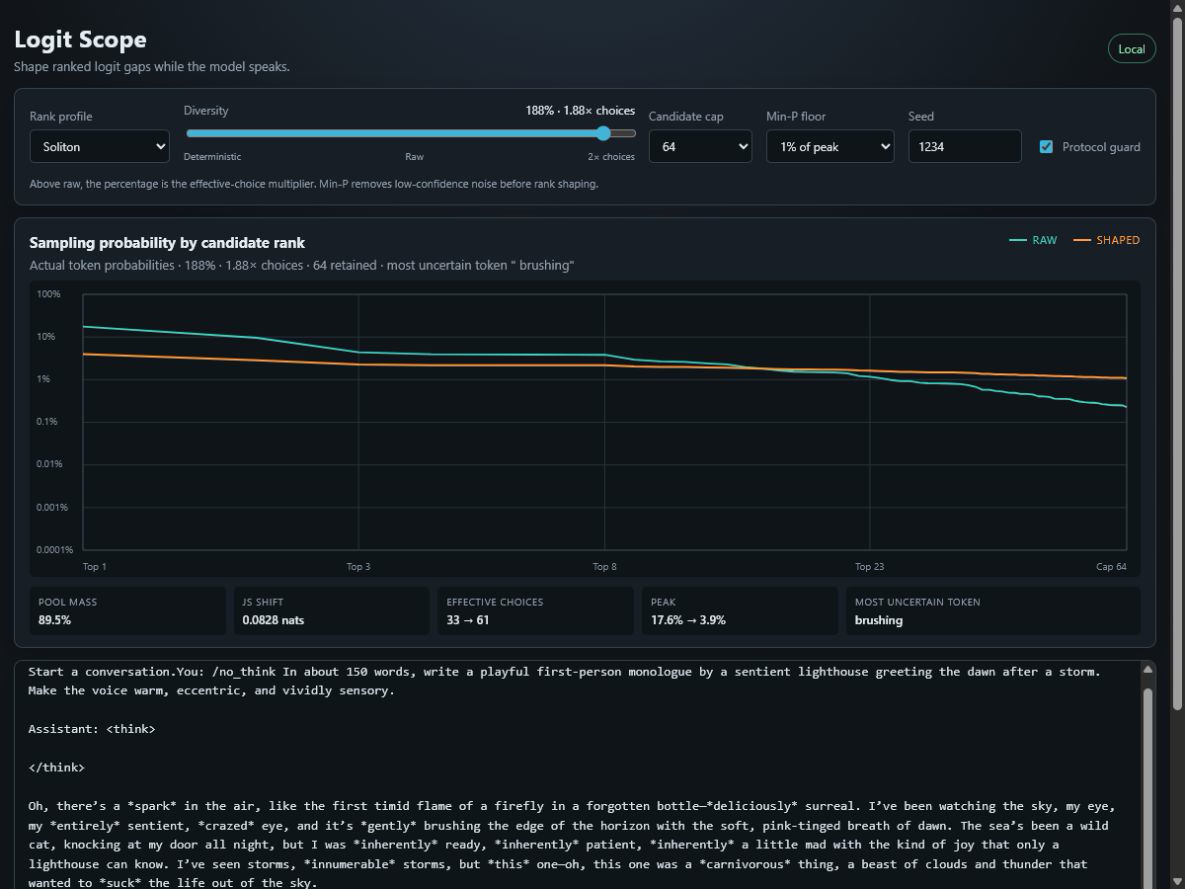
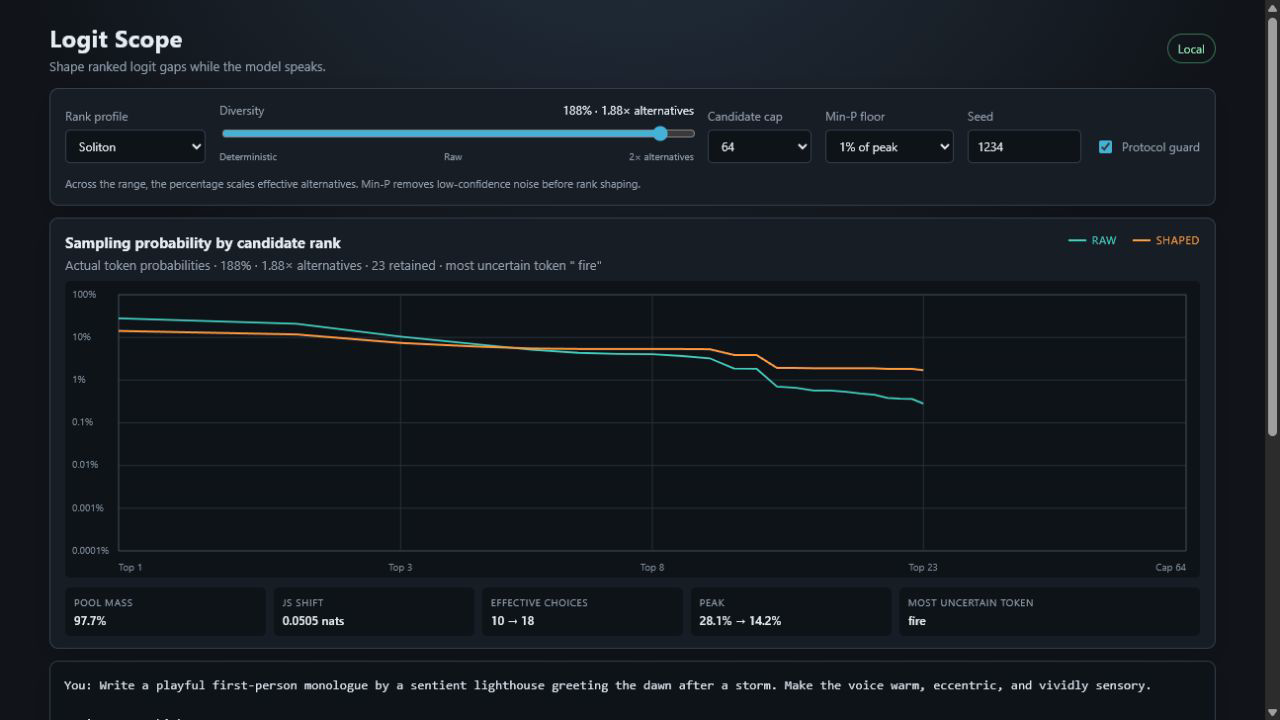
better approach

diff --git a/web/index.html b/web/index.html
@@ -22,6 +22,7 @@
         <span>Rank profile</span>
         <select id="profile">
           <option value="none">None</option>
+          <option value="temperature">Temperature</option>
           <option value="exponential">Exponential</option>
           <option value="soliton" selected>Soliton</option>
           <option value="power">Power</option>
@@ -30,9 +31,9 @@
       </label>
 
       <label class="slider-control">
-        <span>Diversity <output id="diversityValue">188% · 1.88× choices</output></span>
-        <input id="diversity" type="range" min="0" max="200" step="1" value="188" aria-label="Diversity from deterministic through raw to twice the model's effective choices">
-        <span class="range-scale" aria-hidden="true"><span>Deterministic</span><span>Raw</span><span>2× choices</span></span>
+        <span>Diversity <output id="diversityValue">188% · 1.88× alternatives</output></span>
+        <input id="diversity" type="range" min="0" max="200" step="1" value="188" aria-label="Diversity from deterministic through raw to twice the model's effective alternatives">
+        <span class="range-scale" aria-hidden="true"><span>Deterministic</span><span>Raw</span><span>2× alternatives</span></span>
       </label>
 
       <label>
@@ -66,7 +67,7 @@
         <span>Protocol guard</span>
       </label>
 
-      <p class="control-note">Above raw, the percentage is the effective-choice multiplier. Min-P removes low-confidence noise before rank shaping.</p>
+      <p class="control-note">Across the range, the percentage scales effective alternatives. Min-P removes low-confidence noise before rank shaping.</p>
     </section>
 
     <section class="scope panel">
@@ -129,6 +130,7 @@
                 <span>Profile</span>
                 <select id="evalProfileA">
                   <option value="none" selected>None</option>
+                  <option value="temperature">Temperature</option>
                   <option value="exponential">Exponential</option>
                   <option value="soliton">Soliton</option>
                   <option value="power">Power</option>
@@ -179,6 +181,7 @@
                 <span>Profile</span>
                 <select id="evalProfileB">
                   <option value="none">None</option>
+                  <option value="temperature">Temperature</option>
                   <option value="exponential">Exponential</option>
                   <option value="soliton" selected>Soliton</option>
                   <option value="power">Power</option>

diff --git a/web/app.js b/web/app.js
@@ -60,8 +60,7 @@ function updateControlLabels() {
 
 function diversityMode(diversity) {
   if (diversity === 0) return "deterministic";
-  if (diversity < 1) return "sharpen";
-  if (diversity > 1) return `${diversity.toFixed(2)}× choices`;
+  if (diversity !== 1) return `${diversity.toFixed(2)}× alternatives`;
   return "raw";
 }
 
@@ -423,6 +422,7 @@ function saveEvaluationStore() {
 function profileDisplayName(profile) {
   return {
     none: "None",
+    temperature: "Temperature",
     exponential: "Exponential",
     soliton: "Soliton",
     power: "Power",

diff --git a/tests/rank_profile_tests.cpp b/tests/rank_profile_tests.cpp
@@ -33,6 +33,26 @@ logit_scope::ProbabilityMetrics probability_metrics(const std::vector<float>& lo
     return metrics;
 }
 
+double profile_penalty(logit_scope::RankProfile profile, std::size_t rank)
+{
+    const auto rank_value = static_cast<double>(rank);
+    switch (profile)
+    {
+    case logit_scope::RankProfile::exponential:
+        return rank_value;
+    case logit_scope::RankProfile::soliton:
+        return 2.0 * (rank_value + std::log1p(std::exp(-2.0 * rank_value)) - std::log(2.0));
+    case logit_scope::RankProfile::power:
+        return std::log(rank_value + 1.0);
+    case logit_scope::RankProfile::half_normal:
+        return rank_value * rank_value;
+    case logit_scope::RankProfile::none:
+    case logit_scope::RankProfile::temperature:
+        return 0.0;
+    }
+    return 0.0;
+}
+
 } // namespace
 
 int main()
@@ -61,7 +81,8 @@ int main()
     apply_relative_probability_floor(floor_bypass, 0.0f);
     require(floor_bypass.size() == 4, "zero Min-P floor must be an exact bypass");
 
-    for (const auto profile : {RankProfile::exponential, RankProfile::soliton, RankProfile::power, RankProfile::half_normal})
+    for (const auto profile :
+         {RankProfile::temperature, RankProfile::exponential, RankProfile::soliton, RankProfile::power, RankProfile::half_normal})
     {
         ShapeSettings identity_settings;
         identity_settings.profile = profile;
@@ -97,9 +118,10 @@ int main()
                 shape_ranked_logits(logits, shaped_settings);
 
                 const auto shaped_metrics = probability_metrics(logits);
-                const auto maximum_entropy = std::log(static_cast<float>(candidate_count));
-                const auto expected_entropy = diversity < 1.0f ? raw_metrics.entropy * diversity
-                                                               : std::min(maximum_entropy, raw_metrics.entropy + std::log(diversity));
+                const auto raw_effective_choices = std::exp(raw_metrics.entropy);
+                const auto expected_effective_choices =
+                    std::min(static_cast<float>(candidate_count), 1.0f + diversity * (raw_effective_choices - 1.0f));
+                const auto expected_entropy = std::log(expected_effective_choices);
                 if (!close(shaped_metrics.entropy, expected_entropy, 5.0e-4f))
                     std::cerr << "entropy mismatch: profile=" << rank_profile_name(profile) << " pool=" << candidate_count
                               << " diversity=" << diversity << " actual=" << shaped_metrics.entropy << " expected=" << expected_entropy
@@ -138,18 +160,70 @@ int main()
     }
 
     ShapeSettings temperature_settings;
-    temperature_settings.profile = RankProfile::exponential;
-    temperature_settings.diversity = 1.5f;
+    temperature_settings.profile = RankProfile::temperature;
     const std::vector<float> temperature_raw{5.0f, 3.0f, 0.0f, -4.0f, -9.0f};
-    auto temperature_shaped = temperature_raw;
-    shape_ranked_logits(temperature_shaped, temperature_settings);
-    const auto first_gap_ratio = (temperature_shaped[0] - temperature_shaped[1]) / (temperature_raw[0] - temperature_raw[1]);
-    for (std::size_t rank = 2; rank < temperature_raw.size(); ++rank)
+    for (const auto diversity : {0.75f, 1.5f})
     {
-        const auto raw_gap = temperature_raw[rank - 1] - temperature_raw[rank];
-        const auto shaped_gap = temperature_shaped[rank - 1] - temperature_shaped[rank];
-        require(close(shaped_gap / raw_gap, first_gap_ratio, 1.0e-4f), "exponential profile must scale every adjacent logit gap equally");
+        temperature_settings.diversity = diversity;
+        auto temperature_shaped = temperature_raw;
+        shape_ranked_logits(temperature_shaped, temperature_settings);
+        const auto first_gap_ratio = (temperature_shaped[0] - temperature_shaped[1]) / (temperature_raw[0] - temperature_raw[1]);
+        for (std::size_t rank = 2; rank < temperature_raw.size(); ++rank)
+        {
+            const auto raw_gap = temperature_raw[rank - 1] - temperature_raw[rank];
+            const auto shaped_gap = temperature_shaped[rank - 1] - temperature_shaped[rank];
+            require(close(shaped_gap / raw_gap, first_gap_ratio, 1.0e-4f),
+                    "temperature profile must scale every adjacent logit gap equally");
+        }
     }
+
+    for (const auto profile : {RankProfile::exponential, RankProfile::soliton, RankProfile::power, RankProfile::half_normal})
+    {
+        std::vector<float> family_logits(16);
+        for (std::size_t rank = 0; rank < family_logits.size(); ++rank)
+            family_logits[rank] = static_cast<float>(3.0 - 0.7 * profile_penalty(profile, rank));
+
+        for (const auto diversity : {0.6f, 1.6f})
+        {
+            ShapeSettings family_settings;
+            family_settings.profile = profile;
+            family_settings.diversity = diversity;
+            auto family_shaped = family_logits;
+            shape_ranked_logits(family_shaped, family_settings);
+
+            const auto shaped_concentration = (static_cast<double>(family_shaped.front()) - family_shaped[1]) / profile_penalty(profile, 1);
+            for (std::size_t rank = 2; rank < family_shaped.size(); ++rank)
+            {
+                const auto concentration =
+                    (static_cast<double>(family_shaped.front()) - family_shaped[rank]) / profile_penalty(profile, rank);
+                require(std::abs(concentration - shaped_concentration) < 2.0e-4,
+                        "shaping a profile-family distribution must preserve that profile family");
+            }
+        }
+    }
+
+    ShapeSettings cliff_settings;
+    cliff_settings.profile = RankProfile::exponential;
+    cliff_settings.diversity = 1.5f;
+    const std::vector<float> cliff_raw{0.0f, -0.1f, -3.1f};
+    auto cliff_shaped = cliff_raw;
+    shape_ranked_logits(cliff_shaped, cliff_settings);
+    const auto small_gap_ratio = (cliff_shaped[0] - cliff_shaped[1]) / (cliff_raw[0] - cliff_raw[1]);
+    const auto large_gap_ratio = (cliff_shaped[1] - cliff_shaped[2]) / (cliff_raw[1] - cliff_raw[2]);
+    require(small_gap_ratio < large_gap_ratio, "loosening must soften close alternatives before crossing a large raw-logit cliff");
+
+    ShapeSettings alternatives_settings;
+    alternatives_settings.profile = RankProfile::exponential;
+    alternatives_settings.diversity = 2.0f;
+    const std::vector<float> low_entropy_raw{0.0f, -5.0f, -6.0f, -7.0f};
+    auto alternatives_shaped = low_entropy_raw;
+    shape_ranked_logits(alternatives_shaped, alternatives_settings);
+    const auto low_entropy_raw_metrics = probability_metrics(low_entropy_raw);
+    const auto alternatives_shaped_metrics = probability_metrics(alternatives_shaped);
+    const auto raw_effective_choices = std::exp(low_entropy_raw_metrics.entropy);
+    const auto shaped_effective_choices = std::exp(alternatives_shaped_metrics.entropy);
+    require(close(shaped_effective_choices, 1.0f + 2.0f * (raw_effective_choices - 1.0f), 5.0e-4f),
+            "diversity must scale effective alternatives rather than inventing a full choice at low entropy");
 
     ShapeSettings soliton_settings;
     soliton_settings.profile = RankProfile::soliton;
@@ -170,6 +244,7 @@ int main()
 
     RankProfile parsed{};
     require(parse_rank_profile("none", parsed) && parsed == RankProfile::none, "none profile parsing");
+    require(parse_rank_profile("temperature", parsed) && parsed == RankProfile::temperature, "temperature profile parsing");
     require(parse_rank_profile("soliton", parsed) && parsed == RankProfile::soliton, "soliton profile parsing");
     require(parse_rank_profile("half-normal", parsed) && parsed == RankProfile::half_normal, "profile parsing");
     require(!parse_rank_profile("uniform", parsed), "uniform profile rejection");

diff --git a/src/rank_profile.cpp b/src/rank_profile.cpp
@@ -18,6 +18,8 @@ double rank_penalty(RankProfile profile, std::size_t rank)
     const auto rank_value = static_cast<double>(rank);
     switch (profile)
     {
+    case RankProfile::temperature:
+        return 0.0;
     case RankProfile::exponential:
         return rank_value;
     case RankProfile::soliton:
@@ -33,10 +35,19 @@ double rank_penalty(RankProfile profile, std::size_t rank)
     return 0.0;
 }
 
-double shaped_gap(double raw_gap, double profile_gap, double strength, bool loosen)
+double shaped_gap(RankProfile profile, double raw_gap, double profile_gap, double strength, bool loosen)
 {
+    if (profile == RankProfile::temperature)
+    {
+        const auto exponent = std::min(maximum_gap_exponent, strength);
+        return raw_gap * std::exp(loosen ? -exponent : exponent);
+    }
+
     if (!loosen) return raw_gap + strength * profile_gap;
-    const auto exponent = std::min(maximum_gap_exponent, strength * profile_gap);
+    if (raw_gap <= 0.0) return 0.0;
+    // This is a positive soft subtraction: its derivative at zero strength is -profile_gap,
+    // matching the additive sharpening path without erasing large raw-logit cliffs first.
+    const auto exponent = std::min(maximum_gap_exponent, strength * profile_gap / raw_gap);
     return raw_gap * std::exp(-exponent);
 }
 
@@ -54,7 +65,7 @@ float entropy_at_strength(const std::vector<float>& ranked_logits, RankProfile p
         {
             const auto raw_gap = std::max(0.0, static_cast<double>(ranked_logits[rank - 1]) - ranked_logits[rank]);
             const auto profile_gap = rank_penalty(profile, rank) - rank_penalty(profile, rank - 1);
-            shaped_logit -= shaped_gap(raw_gap, profile_gap, strength, loosen);
+            shaped_logit -= shaped_gap(profile, raw_gap, profile_gap, strength, loosen);
         }
         const auto normalized_logit = shaped_logit - maximum_logit;
         const auto weight = std::exp(normalized_logit);
@@ -74,6 +85,8 @@ const char* rank_profile_name(RankProfile profile)
     {
     case RankProfile::none:
         return "none";
+    case RankProfile::temperature:
+        return "temperature";
     case RankProfile::exponential:
         return "exponential";
     case RankProfile::soliton:
@@ -91,6 +104,11 @@ bool parse_rank_profile(std::string_view text, RankProfile& profile)
     if (text == "none")
     {
         profile = RankProfile::none;
+        return true;
+    }
+    if (text == "temperature")
+    {
+        profile = RankProfile::temperature;
         return true;
     }
     if (text == "exponential")
@@ -181,9 +199,11 @@ void shape_ranked_logits(std::vector<float>& ranked_logits, const ShapeSettings&
     probabilities_from_logits(ranked_logits, &raw_metrics);
     const auto maximum_entropy = static_cast<float>(std::log(static_cast<double>(ranked_logits.size())));
     const auto loosen = diversity > 1.0f;
-    const auto target_entropy =
-        loosen ? std::min(maximum_entropy, raw_metrics.entropy + static_cast<float>(std::log(static_cast<double>(diversity))))
-               : raw_metrics.entropy * diversity;
+    const auto raw_effective_choices = std::exp(static_cast<double>(raw_metrics.entropy));
+    // Scale only choices beyond the deterministic leading choice so confident decisions stay confident.
+    const auto target_effective_choices =
+        std::min(static_cast<double>(ranked_logits.size()), 1.0 + diversity * std::max(0.0, raw_effective_choices - 1.0));
+    const auto target_entropy = static_cast<float>(std::log(target_effective_choices));
     if (target_entropy >= maximum_entropy)
     {
         std::fill(ranked_logits.begin() + 1, ranked_logits.end(), ranked_logits.front());
@@ -216,7 +236,7 @@ void shape_ranked_logits(std::vector<float>& ranked_logits, const ShapeSettings&
         const auto raw_logit = ranked_logits[rank];
         const auto raw_gap = std::max(0.0, static_cast<double>(previous_raw_logit) - raw_logit);
         const auto profile_gap = rank_penalty(settings.profile, rank) - rank_penalty(settings.profile, rank - 1);
-        shaped_logit -= shaped_gap(raw_gap, profile_gap, strength, loosen);
+        shaped_logit -= shaped_gap(settings.profile, raw_gap, profile_gap, strength, loosen);
         ranked_logits[rank] = static_cast<float>(std::max(static_cast<double>(std::numeric_limits<float>::lowest()), shaped_logit));
         previous_raw_logit = raw_logit;
     }

diff --git a/include/logit_scope/rank_profile.h b/include/logit_scope/rank_profile.h
@@ -14,6 +14,7 @@ constexpr std::size_t maximum_candidate_cap = 4096;
 enum class RankProfile
 {
     none,
+    temperature,
     exponential,
     soliton,
     power,

diff --git a/README.md b/README.md
@@ -10,8 +10,8 @@ The project is a small C++ application built directly on [llama.cpp](https://git
 
 ## What you can manipulate
 
-- **Profile:** no shaping, or an exponential, soliton, power, or half-normal response across adjacent ranked-logit gaps
-- **Diversity:** moves from deterministic sampling at 0%, through unchanged sampling at 100%, to twice the model's effective choices at 200%, subject to the candidate policy and protocol guard
+- **Profile:** no shaping, a slope-preserving temperature baseline, or an exponential, soliton, power, or half-normal response across adjacent ranked-logit gaps
+- **Diversity:** scales the model's effective alternatives from none at 0%, through unchanged sampling at 100%, to twice as many at 200%, subject to the candidate policy and protocol guard
 - **Candidate cap:** limits sampling to at most the top 32–4096 candidates
 - **Min-P floor:** removes candidates whose raw probability is too small relative to the leading candidate; the default is 1% of the peak
 - **Seed:** initializes the random sampler for the next response
@@ -21,7 +21,7 @@ The default personality is **Soliton** at **188% diversity**, with a **64-candid
 
 Profile, diversity, candidate-policy, and protocol-guard changes take effect on the next sampled token, including during a response. Seed changes take effect when the next response starts.
 
-![Exploring diversity around the default Soliton personality](docs/images/logit-scope-demo.gif)
+![Exploring effective alternatives around the default Soliton personality](docs/images/logit-scope-demo.gif)
 
 ## Blind evaluation lab
 
@@ -113,22 +113,25 @@ half-normal:  f(r) = r²
 
 w(r) = f(r) - f(r - 1)
 sharpen: g'(r) = g(r) + s w(r)
-loosen:  g'(r) = g(r) exp(-s w(r))
+loosen:  g'(r) = g(r) exp(-s w(r) / g(r))
 ```
 
-The shaped logits are reconstructed from `l'(0) = l(0)` and those gaps. Positive raw gaps therefore stay positive at every finite loosening strength: shaping cannot make a lower-ranked token overtake a higher-ranked one, and it no longer creates a broad equal-logit plateau as a side effect of clamping. With the **Exponential** profile, `w(r) = 1`, so loosening scales every adjacent gap by the same amount, similar to temperature but calibrated to a directly interpretable entropy target.
+The loosen formula applies when `g(r) > 0`; an existing zero gap remains zero. It is a rank-safe soft version of subtracting `s w(r)`: near zero strength its first-order response is `g(r) - s w(r)`, matching sharpening in the opposite direction, while every positive gap stays positive at finite strength. Large raw-logit cliffs soften later than clusters of close alternatives, and a distribution already in the selected profile family stays in that family as its concentration changes. The shaped logits are reconstructed from `l'(0) = l(0)`, so a lower-ranked token cannot overtake a higher-ranked one.
+
+The **Temperature** baseline instead multiplies every raw gap by the same calibrated factor. It is the familiar slope-preserving logit-temperature transform and provides a control for determining whether a rank profile adds value beyond entropy-matched temperature.
 
 The **Soliton** profile takes the descending half of the canonical `sech²` [Korteweg–de Vries solitary-wave pulse](https://gfd.whoi.edu/wp-content/uploads/sites/18/2018/03/NLW1-Intro_52126.pdf) and uses its negative log as a rank penalty. It borrows that envelope as a smooth weighting curve; the sampler does not solve a wave equation. The result has a rounded shoulder across the highest-ranked candidates and approaches exponential suppression in the tail.
 
-The profile strength `s` is not exposed as a control. Instead, the shared calibrator solves for it on every token. Below 100%, diversity scales the raw entropy toward zero. Above 100%, diversity multiplies the distribution's effective number of choices, `exp(H)`, until the selected pool's finite maximum is reached:
+The profile strength `s` is not exposed as a control. Instead, the shared calibrator solves for it on every token. Diversity operates on effective alternatives: the entropy-derived effective choice count minus the one leading choice that is present even in a deterministic distribution.
 
 ```text
-0% ≤ diversity ≤ 100%: shaped entropy = D × raw entropy
-100% < diversity ≤ 200%: shaped entropy = min(log(K), raw entropy + log(D))
-effective choices = exp(entropy)
+raw effective choices = exp(H)
+raw effective alternatives = exp(H) - 1
+target effective choices = min(K, 1 + D × (exp(H) - 1))
+target entropy = log(target effective choices)
 ```
 
-Below 100%, the profile removes probability from lower ranks. Above 100%, it returns probability toward lower ranks while preserving the model's candidate order. For example, 105% requests only 1.05 times the raw effective choices, while 200% requests twice as many. The previous distance-to-uniform interpretation made even a small move above 100% pull in proportion to `log(K)`; with a large fixed pool, that could flatten many implausible tail tokens and sharply destabilize generation. The effective-choice interpretation is independent of unused pool capacity and reaches uniform only when doubling the raw effective choices would already exhaust the selected pool.
+Below 100%, the profile removes probability from lower ranks. Above 100%, it returns probability toward lower ranks while preserving the model's candidate order. Scaling alternatives instead of total choices keeps low-entropy decisions stable: a nearly certain token does not gain a whole fabricated alternative merely because diversity is above 100%. At higher raw entropy the interpretation approaches an ordinary choice multiplier; 200% produces `2 exp(H) - 1` effective choices unless the selected pool is exhausted. The mapping is continuous through the raw distribution and independent of unused pool capacity.
 
 This keeps profile experiments small: a new profile supplies one rank curve, while the common bidirectional calibration and UI contract remain unchanged. The **None** profile is an exact shaping bypass, and 100% diversity is also an exact shaping bypass. The Min-P floor and candidate cap are a separate candidate policy and still apply in either bypass mode.
 
